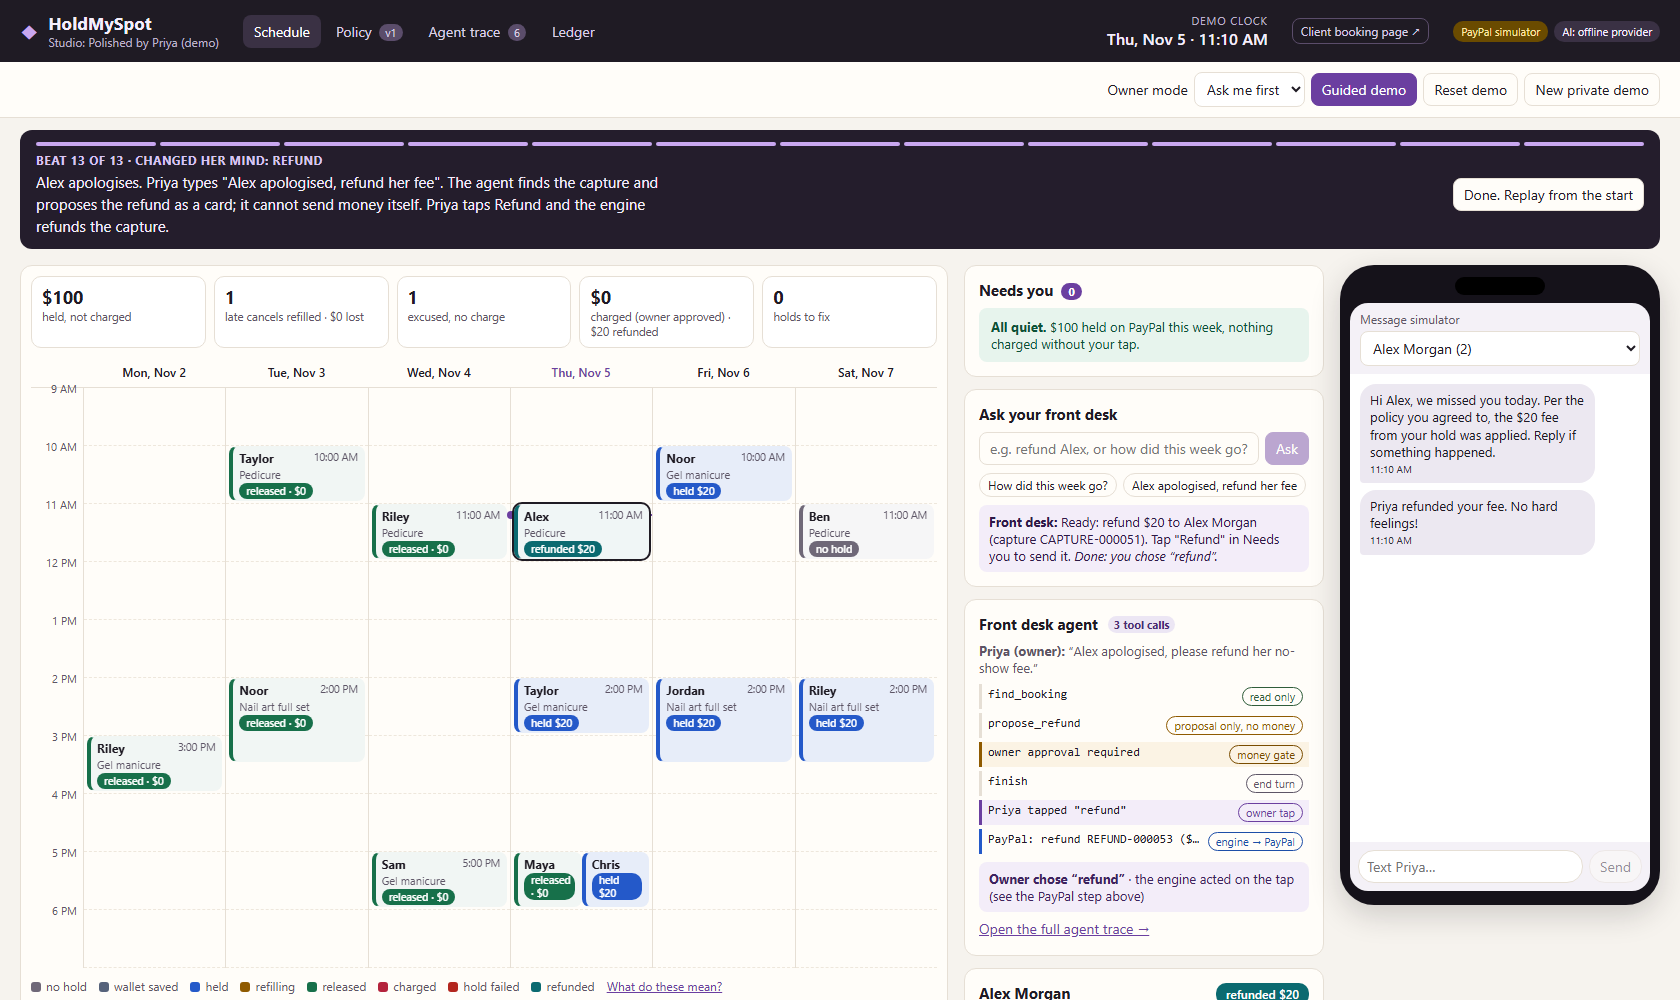
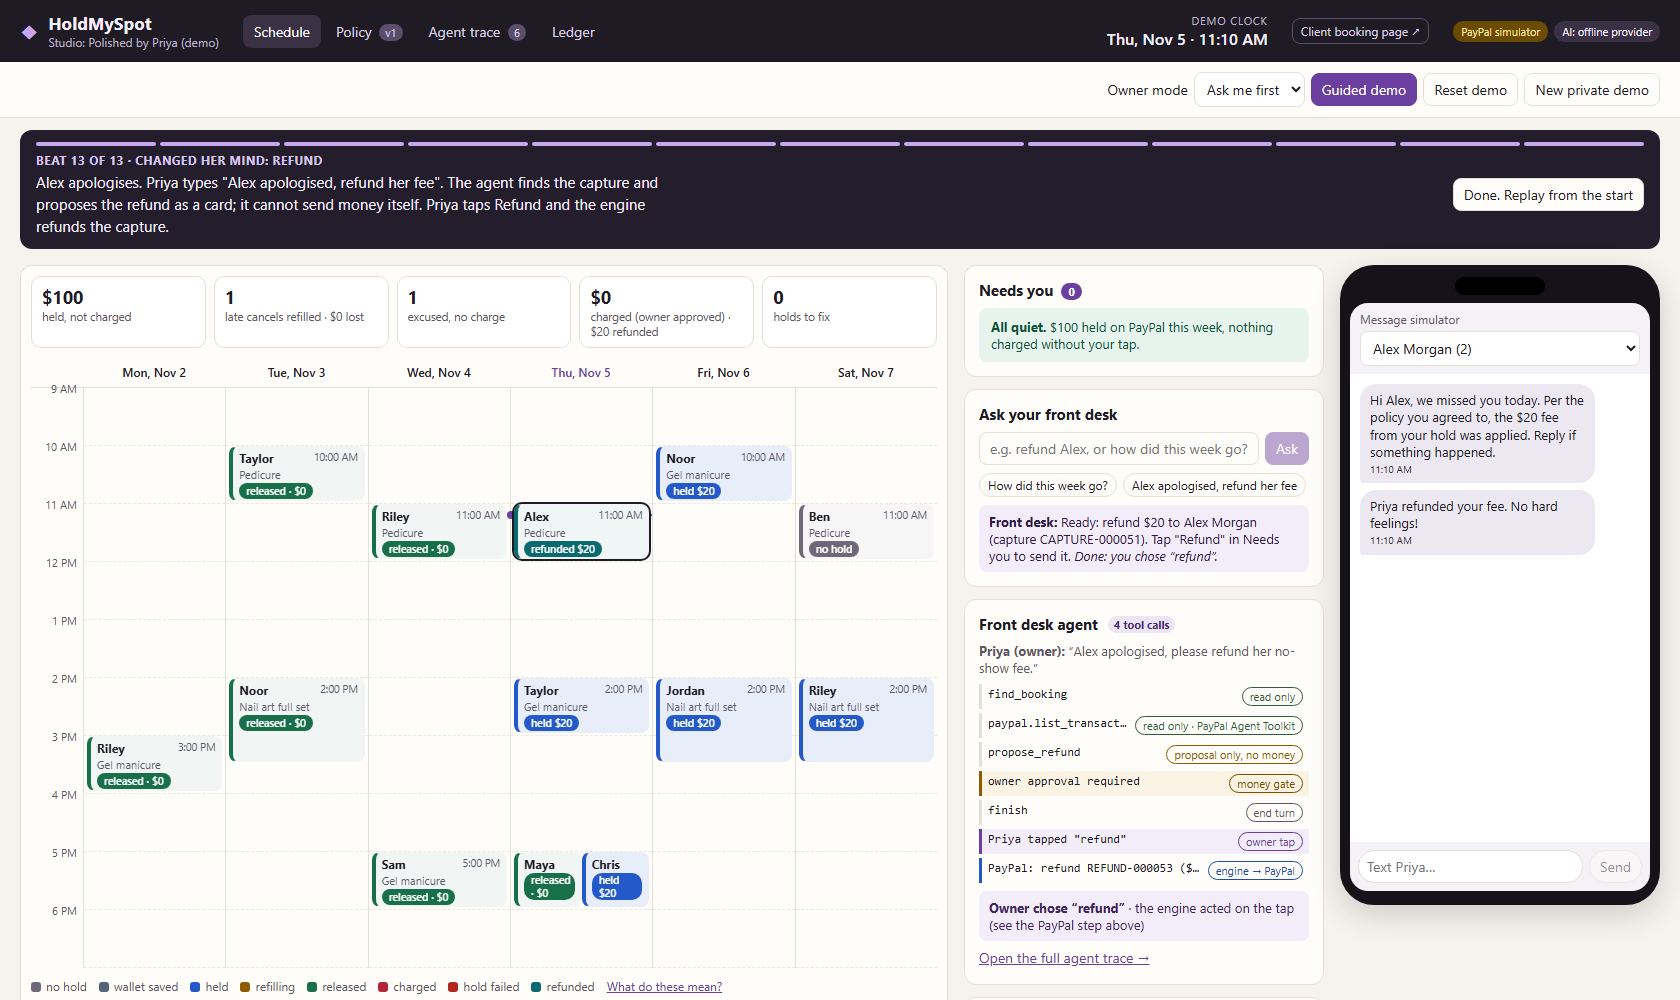
Agent trace lists the PayPal Agent Toolkit read tools and the toolkit money tools left out; ui-check asserts both

Changed region(s): [[0.5571, 0.713, 0.8048, 1.0]]

diff --git a/web/src/AgentTrace.tsx b/web/src/AgentTrace.tsx
@@ -17,6 +17,7 @@ const GATE_LABEL: Record<AgentRun['gate']['kind'], string> = {
 };
 
 function stepTag(s: TraceStep): { cls: string; text: string } {
+  if (s.kind === 'tool' && s.source === 'paypal-agent-toolkit') return { cls: 'acc-read', text: 'read only · PayPal Agent Toolkit' };
   if (s.kind === 'tool') return { cls: `acc-${s.access ?? 'read'}`, text: ACCESS_LABEL[s.access ?? 'read'] };
   if (s.kind === 'denied') return { cls: 'acc-denied', text: 'denied · not in toolset' };
   if (s.kind === 'gate') return { cls: 'acc-gate', text: 'money gate' };
@@ -155,6 +156,11 @@ export function AgentTraceView({ s }: { s: Snapshot }) {
               <li>
                 <code>propose_refund</code> <span className="trace-tag acc-propose">proposal → owner card</span>
               </li>
+              {(s.agentToolkit?.tools ?? []).map((t) => (
+                <li key={t}>
+                  <code>{t}</code> <span className="trace-tag acc-read">read only · PayPal Agent Toolkit</span>
+                </li>
+              ))}
             </ul>
           </div>
           <div>
@@ -165,10 +171,21 @@ export function AgentTraceView({ s }: { s: Snapshot }) {
                   <code className="struck">{t}</code> <span className="trace-tag acc-denied">engine only</span>
                 </li>
               ))}
+              {(s.agentToolkit?.notGiven ?? []).map((t) => (
+                <li key={t}>
+                  <code className="struck">{t}</code> <span className="trace-tag acc-denied">not on allow-list</span>
+                </li>
+              ))}
             </ul>
           </div>
         </div>
         <p className="muted">
+          {s.agentToolkit && (
+            <>
+              PayPal reads go through PayPal’s official Agent Toolkit (<code>{s.agentToolkit.package}</code>), limited to five read tools; any other toolkit call, and any non-GET request, is refused before it
+              leaves the server.{' '}
+            </>
+          )}
           Releasing a hold (void) is automatic when the policy says so, because it only returns money. Any charge needs {s.owner}’s tap on a card. Asking for a tool outside the set is
           logged as denied and nothing runs.
         </p>

diff --git a/server/src/scripts/ui-check.ts b/server/src/scripts/ui-check.ts
@@ -96,6 +96,8 @@ try {
       const trace = (await desk.locator('.trace-detail').textContent()) ?? '';
       check(/create_refund/.test(trace) && /not in the front desk's toolset/.test(trace), 'agent trace shows the injected create_refund call denied');
       check(/propose_settlement/.test(trace) && /policy check/.test(trace), 'agent trace shows the proposal and the policy check');
+      const toolset = (await desk.locator('.toolsets').textContent()) ?? '';
+      check(/paypal\.list_transactions/.test(toolset) && /PayPal Agent Toolkit/.test(toolset) && /paypal\.create_refund/.test(toolset), 'agent tab lists the PayPal Agent Toolkit read tools and the toolkit money tools it does not get');
       await axe(desk, 'agent trace tab');
       await shot(desk, 'agent-trace-injection.png');
     }
@@ -103,6 +105,7 @@ try {
     if (i === 13) {
       const card = (await desk.locator('.trace-card').textContent()) ?? '';
       check(/find_booking/.test(card) && /propose_refund/.test(card) && /owner tap/.test(card), 'beat 13: agent card shows the owner request, the refund proposal and the tap');
+      check(/paypal\.list_transactions/.test(card), 'beat 13: agent checked the capture on PayPal through the Agent Toolkit before proposing');
       check(/Tap "Refund"/.test((await desk.locator('.ask-card').textContent()) ?? ''), 'beat 13: the front desk answered the owner');
       await shot(desk, 'console-owner-refund.png');
     }

diff --git a/web/src/api.ts b/web/src/api.ts
@@ -55,6 +55,8 @@ export interface TraceStep {
   kind: 'tool' | 'denied' | 'code' | 'effect' | 'gate' | 'owner';
   name: string;
   access?: 'read' | 'model' | 'propose' | 'end';
+  /** 'paypal-agent-toolkit' for PayPal's official toolkit tools */
+  source?: string;
   why?: string;
   args?: Record<string, unknown>;
   result?: string;
@@ -103,6 +105,8 @@ export interface Snapshot {
   messages: ChatMessage[];
   agentRuns?: AgentRun[];
   agentToolsNotGiven?: string[];
+  /** PayPal Agent Toolkit read tools in the owner's agent (null when PAYPAL_AGENT_TOOLKIT=off) */
+  agentToolkit?: { package: string; tools: string[]; notGiven: string[]; http: Array<{ method: string; path: string; status: number; blocked?: boolean }> } | null;
   jobs: Array<{ id: string; at: number; name: string }>;
 }
 
